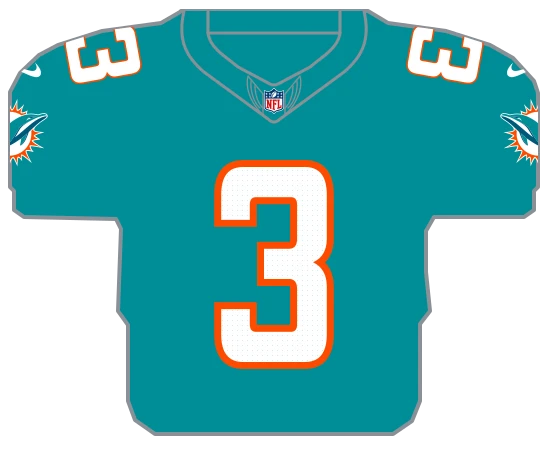
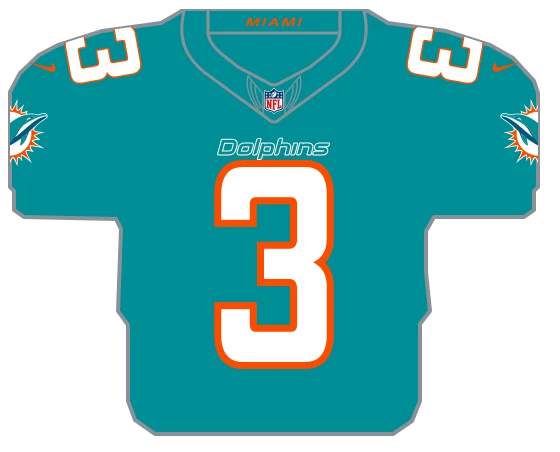
fix(uniforms): restore Dolphins aqua home marks (DEP-717)

diff --git a/web/lib/uniforms/teams/dolphins/marks/wordmark.ts b/web/lib/uniforms/teams/dolphins/marks/wordmark.ts
@@ -1,0 +1,31 @@
+import { placed } from '../../core/marks';
+
+export const DOLPHINS_CHEST_WORDMARK = placed([
+  {
+    id: 'dolphins-wordmark-orange-outer',
+    surface: 'jersey',
+    kind: 'fill',
+    fill: 'orange',
+    fillRule: 'evenodd',
+    clip: true,
+    d: 'M344.26,522.90 L338.02,522.81 C337.07,522.78 336.27,522.58 335.76,522.11 C336.37,522.92 337.49,523.40 338.47,523.40 L343.72,523.47 C344.01,523.31 344.17,523.10 344.26,522.90 Z M349.52,515.94 L349.22,517.07 C349.04,517.54 348.55,518.79 346.62,518.83 L339.86,518.84 C338.81,518.84 338.86,519.58 338.86,519.58 L339.74,519.60 C339.74,519.60 339.59,519.38 340.31,519.38 L346.45,519.43 C349.05,519.46 349.71,517.56 349.80,517.23 L350.00,516.48 L349.52,515.94 Z M347.65,521.33 C347.65,521.33 348.11,522.03 347.65,523.76 C347.41,524.66 346.39,527.04 342.66,527.04 L333.67,527.04 L334.20,527.63 L342.64,527.64 C346.46,527.64 348.12,525.18 348.21,523.45 C348.27,522.08 347.65,521.33 347.65,521.33 Z M329.37,519.45 C329.38,519.31 329.37,519.19 329.35,519.08 C329.08,518.94 328.75,518.89 328.43,518.89 L322.86,518.89 L321.21,525.04 C320.83,526.33 319.92,527.01 318.30,527.00 L317.72,527.00 L318.26,527.60 L318.53,527.60 C320.27,527.60 321.50,526.48 321.81,525.13 L323.31,519.49 L328.88,519.49 C329.04,519.49 329.20,519.50 329.36,519.53 C329.36,519.52 329.36,519.52 329.36,519.51 C329.36,519.49 329.36,519.47 329.37,519.45 Z M332.72,517.73 C333.16,518.89 332.74,520.55 332.61,521.05 L331.00,527.00 L328.05,527.00 L328.58,527.60 L331.45,527.60 L333.06,521.65 C333.56,519.86 333.10,518.41 332.72,517.73 Z M317.73,516.08 L315.28,525.19 C315.19,525.51 314.73,527.07 312.72,527.07 L311.83,527.07 L312.35,527.66 L312.81,527.66 C314.41,527.66 315.53,526.53 315.82,525.48 L318.20,516.60 L317.73,516.08 Z M307.27,519.25 C307.27,519.17 307.27,519.11 307.26,519.04 C307.00,518.92 306.67,518.88 306.35,518.88 L300.64,518.89 L299.01,525.02 C298.56,526.60 297.41,527.06 296.16,527.06 L295.45,527.06 L295.99,527.66 C298.17,527.74 299.24,526.44 299.56,525.28 L301.09,519.48 L306.80,519.47 C306.95,519.47 307.09,519.48 307.24,519.50 C307.24,519.50 307.24,519.50 307.24,519.49 C307.25,519.42 307.26,519.34 307.27,519.25 Z M310.39,517.30 C310.90,518.27 310.81,519.15 310.74,519.81 C310.74,519.81 310.66,520.46 310.49,521.13 L308.88,527.07 L305.92,527.07 L306.46,527.66 L309.33,527.66 L310.93,521.73 C311.46,519.94 311.14,518.33 310.39,517.30 Z M290.98,519.37 C290.99,519.29 290.99,519.20 290.99,519.11 C290.73,518.99 290.33,518.92 289.71,518.92 L284.81,518.92 L283.88,522.41 C283.79,522.76 283.80,523.07 283.90,523.33 C284.01,523.41 284.13,523.48 284.27,523.53 C284.26,523.37 284.28,523.19 284.33,523.00 L285.26,519.52 L290.16,519.52 C290.48,519.52 290.73,519.54 290.94,519.57 C290.94,519.56 290.95,519.56 290.95,519.55 C290.96,519.47 290.97,519.41 290.98,519.37 Z M294.22,517.16 C294.68,518.17 294.56,519.21 294.45,519.66 L293.46,523.67 C293.08,525.39 292.11,527.08 289.93,527.08 C289.93,527.08 284.72,527.10 284.61,527.08 C283.79,527.10 283.34,526.82 283.34,526.82 C283.34,526.82 283.92,527.68 285.06,527.68 L289.64,527.68 C293.53,527.80 293.95,524.12 294.29,522.85 L294.90,520.26 C295.07,519.43 294.95,518.11 294.22,517.16 Z M282.91,526.18 L281.95,529.80 C281.57,531.17 280.48,531.76 279.21,531.76 L278.45,531.76 L278.98,532.36 L279.33,532.36 C280.90,532.36 282.20,531.35 282.55,529.84 L283.34,526.82 C283.05,526.50 282.91,526.18 282.91,526.18 Z M280.97,511.41 L277.26,525.33 C277.03,526.27 276.01,527.07 274.91,527.07 L273.85,527.07 L274.36,527.66 L274.91,527.66 C276.35,527.66 277.46,526.64 277.80,525.62 L281.44,511.92 L280.97,511.41 Z M264.75,518.93 C262.62,518.94 262.59,519.27 262.15,520.73 L261.35,523.67 L261.96,523.67 L262.79,520.66 C263.03,519.77 263.07,519.53 264.36,519.53 L269.27,519.53 C269.33,519.31 269.38,519.11 269.42,518.93 L264.75,518.93 Z M273.75,517.38 C273.63,516.84 273.30,516.43 273.30,516.43 C273.54,517.10 273.30,518.01 273.25,518.23 L272.09,522.75 C271.34,525.58 268.61,527.07 266.21,527.07 L259.40,527.07 C259.19,527.06 258.39,527.02 258.10,526.84 C258.10,526.84 258.27,527.07 258.70,527.33 C259.20,527.64 259.85,527.67 259.85,527.67 L265.95,527.67 C269.32,527.67 271.81,525.76 272.62,523.09 L273.70,518.83 C273.70,518.83 273.92,518.21 273.75,517.38 Z M253.61,515.75 C253.19,515.51 252.44,515.39 251.12,515.39 L244.64,515.39 L242.48,523.44 L243.09,523.44 L245.10,515.99 L251.57,515.99 C252.54,515.99 253.20,516.05 253.65,516.18 C253.65,516.17 253.65,516.16 253.65,516.15 C253.65,516.00 253.64,515.87 253.61,515.75 Z M257.57,517.40 C257.51,518.11 257.34,518.95 256.79,521.00 C255.37,526.34 252.17,527.64 248.62,527.64 L239.08,527.64 L238.55,527.05 L248.17,527.05 C252.50,527.05 254.93,525.74 256.34,520.40 C256.88,518.36 257.06,517.51 257.12,516.81 C257.20,515.99 257.31,514.95 256.87,514.19 C257.52,515.18 257.67,516.36 257.57,517.40',
+  },
+  {
+    id: 'dolphins-wordmark-white-keyline',
+    surface: 'jersey',
+    kind: 'stroke',
+    stroke: 'white',
+    strokeWidth: 2,
+    clip: true,
+    d: 'M349.02,515.49 L348.83,516.22 L348.66,516.86 C348.63,516.97 348.45,517.48 347.95,517.86 C347.47,518.22 346.81,518.24 346.68,518.24 L339.37,518.24 C337.94,518.24 337.97,519.56 337.97,519.56 L344.10,519.68 C346.24,519.72 347.39,521.00 347.30,522.37 C347.29,522.56 347.23,523.03 347.10,523.49 C346.81,524.60 345.85,526.44 342.58,526.44 L333.12,526.44 L333.45,525.17 C333.48,525.06 333.57,524.41 334.06,524.05 C334.51,523.71 335.12,523.68 335.29,523.68 L342.72,523.67 C343.16,523.67 343.48,523.59 343.72,523.46 C344.00,523.31 344.16,523.10 344.25,522.89 C344.39,522.59 344.36,522.32 344.36,522.32 L337.81,522.19 C335.90,522.14 334.77,521.14 334.91,519.54 C334.93,519.35 334.96,518.97 335.13,518.35 L335.13,518.35 L335.13,518.34 C335.63,516.58 337.33,515.49 339.56,515.49 L339.57,515.49 L348.28,515.49 L349.02,515.49 Z M332.36,519.23 C332.33,519.53 332.29,519.95 332.16,520.46 L330.55,526.41 L327.50,526.41 L329.22,520.12 C329.31,519.77 329.34,519.62 329.35,519.53 C329.35,519.52 329.35,519.51 329.35,519.51 C329.36,519.49 329.36,519.47 329.36,519.45 C329.37,519.31 329.37,519.19 329.34,519.08 C329.34,519.06 329.34,519.05 329.33,519.03 C329.18,518.44 328.54,518.30 327.98,518.30 L322.40,518.30 L320.63,524.91 C320.56,525.11 320.34,525.67 319.90,526.00 C319.35,526.41 318.43,526.41 318.43,526.41 L317.19,526.41 L320.12,515.49 L323.14,515.49 L322.79,516.80 C323.57,515.80 324.38,515.55 324.79,515.49 L328.44,515.49 C331.03,515.49 332.57,516.96 332.36,519.23 Z M314.69,525.11 L314.68,525.14 L314.67,525.17 C314.57,525.44 314.38,525.82 314.01,526.09 C313.53,526.45 312.87,526.47 312.74,526.47 L311.28,526.47 L314.20,515.56 L317.26,515.56 L314.69,525.11 Z M310.26,519.17 L310.26,519.26 C310.23,519.52 310.21,519.86 310.03,520.54 L308.42,526.47 L305.38,526.47 L307.10,520.14 C307.17,519.84 307.21,519.68 307.23,519.50 C307.23,519.50 307.23,519.50 307.24,519.49 C307.25,519.42 307.25,519.34 307.26,519.25 C307.27,519.17 307.27,519.10 307.26,519.04 C307.26,519.03 307.26,519.01 307.26,519.00 C307.16,518.42 306.49,518.28 305.90,518.28 L300.19,518.29 L298.43,524.89 C298.43,524.89 298.23,525.65 297.68,526.06 C297.23,526.39 296.55,526.46 296.30,526.47 L294.91,526.47 L298.74,512.08 C298.83,511.84 299.04,511.35 299.45,511.05 C299.88,510.72 300.55,510.66 300.81,510.64 L302.16,510.64 L301.97,511.37 L300.56,516.86 C300.83,516.51 301.11,516.25 301.37,516.06 C301.41,516.04 301.45,516.01 301.49,515.98 C301.69,515.84 301.89,515.75 302.07,515.68 C302.14,515.65 302.21,515.63 302.28,515.61 C302.61,515.52 302.83,515.53 302.83,515.53 L306.34,515.53 C309.49,515.53 310.42,517.49 310.26,519.17 Z M289.89,523.66 C289.89,523.66 286.40,523.66 285.00,523.66 C284.73,523.66 284.48,523.62 284.27,523.53 C284.13,523.48 284.01,523.41 283.90,523.33 C283.47,523.01 283.25,522.48 283.42,521.81 L284.35,518.33 L289.26,518.33 C290.67,518.33 290.95,518.71 290.98,519.07 C290.98,519.08 290.98,519.09 290.98,519.11 C290.99,519.20 290.98,519.29 290.97,519.37 C290.97,519.41 290.96,519.47 290.94,519.55 C290.94,519.56 290.94,519.56 290.94,519.57 C290.75,520.49 289.89,523.66 289.89,523.66 Z M290.20,515.52 L286.87,515.53 C286.54,515.55 285.62,515.72 284.74,516.85 L285.08,515.53 L282.12,515.54 L277.91,531.16 L279.24,531.16 C279.45,531.16 280.18,531.11 280.65,530.76 C281.08,530.43 281.29,529.90 281.37,529.68 L282.61,525.00 C282.62,525.47 282.86,526.32 284.15,526.49 C284.27,526.50 288.80,526.49 288.80,526.49 L288.80,526.49 L289.98,526.49 C289.98,526.49 290.88,526.54 291.60,525.95 C292.40,525.30 292.69,524.26 292.69,524.26 L292.96,523.33 C292.96,523.33 293.97,519.35 294.00,519.07 C294.20,516.84 292.78,515.52 290.20,515.52 Z M280.30,511.62 L276.71,525.07 L276.71,525.08 L276.71,525.09 C276.65,525.28 276.46,525.78 276.03,526.10 C275.67,526.37 275.22,526.45 274.90,526.47 L274.88,526.47 L273.30,526.47 L273.49,525.74 L277.07,512.33 C277.10,512.22 277.27,511.64 277.77,511.27 C278.23,510.92 278.85,510.89 279.03,510.89 L280.49,510.89 L280.30,511.62 Z M268.67,521.87 C268.33,523.14 267.56,523.68 266.09,523.68 L260.79,523.68 L261.75,520.14 C262.05,519.03 262.59,518.34 264.35,518.34 L269.57,518.34 C269.55,518.39 268.71,521.75 268.67,521.87 Z M272.61,516.05 C272.30,515.60 271.69,515.52 271.42,515.51 L264.67,515.51 C261.57,515.51 259.53,517.01 258.77,519.85 L257.61,524.34 C257.56,524.60 257.43,525.41 257.80,525.94 C258.09,526.37 258.65,526.46 258.94,526.48 L265.75,526.48 C268.90,526.48 270.88,525.03 271.64,522.16 L272.53,518.67 L272.53,518.67 L272.63,518.27 L272.79,517.64 C272.85,517.37 272.96,516.58 272.61,516.05 Z M253.61,516.59 C253.58,516.99 253.40,517.75 252.93,519.52 C251.98,523.04 251.52,523.44 248.38,523.44 L241.86,523.44 L244.18,514.80 L250.66,514.80 C252.77,514.80 253.43,515.11 253.59,515.71 C253.60,515.72 253.60,515.74 253.60,515.75 C253.63,515.87 253.64,516.17 253.64,516.18 C253.64,516.31 253.63,516.45 253.61,516.59 Z M251.31,511.79 L241.94,511.79 L241.80,512.31 L238.00,526.46 L247.71,526.46 C252.84,526.46 254.45,525.15 255.89,519.81 C256.45,517.77 256.60,516.92 256.66,516.22 C256.85,514.20 256.07,511.79 251.31,511.79',
+  },
+  {
+    id: 'dolphins-wordmark-interior',
+    surface: 'jersey',
+    kind: 'fill',
+    fill: 'teal',
+    fillRule: 'evenodd',
+    clip: true,
+    d: 'M349.02,515.49 L348.83,516.22 L348.66,516.86 C348.63,516.97 348.45,517.48 347.95,517.86 C347.47,518.22 346.81,518.24 346.68,518.24 L339.37,518.24 C337.94,518.24 337.97,519.56 337.97,519.56 L344.10,519.68 C346.24,519.72 347.39,521.00 347.30,522.37 C347.29,522.56 347.23,523.03 347.10,523.49 C346.81,524.60 345.85,526.44 342.58,526.44 L333.12,526.44 L333.45,525.17 C333.48,525.06 333.57,524.41 334.06,524.05 C334.51,523.71 335.12,523.68 335.29,523.68 L342.72,523.67 C343.16,523.67 343.48,523.59 343.72,523.46 C344.00,523.31 344.16,523.10 344.25,522.89 C344.39,522.59 344.36,522.32 344.36,522.32 L337.81,522.19 C335.90,522.14 334.77,521.14 334.91,519.54 C334.93,519.35 334.96,518.97 335.13,518.35 L335.13,518.35 L335.13,518.34 C335.63,516.58 337.33,515.49 339.56,515.49 L339.57,515.49 L348.28,515.49 L349.02,515.49 Z M332.36,519.23 C332.33,519.53 332.29,519.95 332.16,520.46 L330.55,526.41 L327.50,526.41 L329.22,520.12 C329.31,519.77 329.34,519.62 329.35,519.53 C329.35,519.52 329.35,519.51 329.35,519.51 C329.36,519.49 329.36,519.47 329.36,519.45 C329.37,519.31 329.37,519.19 329.34,519.08 C329.34,519.06 329.34,519.05 329.33,519.03 C329.18,518.44 328.54,518.30 327.98,518.30 L322.40,518.30 L320.63,524.91 C320.56,525.11 320.34,525.67 319.90,526.00 C319.35,526.41 318.43,526.41 318.43,526.41 L317.19,526.41 L320.12,515.49 L323.14,515.49 L322.79,516.80 C323.57,515.80 324.38,515.55 324.79,515.49 L328.44,515.49 C331.03,515.49 332.57,516.96 332.36,519.23 Z M314.69,525.11 L314.68,525.14 L314.67,525.17 C314.57,525.44 314.38,525.82 314.01,526.09 C313.53,526.45 312.87,526.47 312.74,526.47 L311.28,526.47 L314.20,515.56 L317.26,515.56 L314.69,525.11 Z M310.26,519.17 L310.26,519.26 C310.23,519.52 310.21,519.86 310.03,520.54 L308.42,526.47 L305.38,526.47 L307.10,520.14 C307.17,519.84 307.21,519.68 307.23,519.50 C307.23,519.50 307.23,519.50 307.24,519.49 C307.25,519.42 307.25,519.34 307.26,519.25 C307.27,519.17 307.27,519.10 307.26,519.04 C307.26,519.03 307.26,519.01 307.26,519.00 C307.16,518.42 306.49,518.28 305.90,518.28 L300.19,518.29 L298.43,524.89 C298.43,524.89 298.23,525.65 297.68,526.06 C297.23,526.39 296.55,526.46 296.30,526.47 L294.91,526.47 L298.74,512.08 C298.83,511.84 299.04,511.35 299.45,511.05 C299.88,510.72 300.55,510.66 300.81,510.64 L302.16,510.64 L301.97,511.37 L300.56,516.86 C300.83,516.51 301.11,516.25 301.37,516.06 C301.41,516.04 301.45,516.01 301.49,515.98 C301.69,515.84 301.89,515.75 302.07,515.68 C302.14,515.65 302.21,515.63 302.28,515.61 C302.61,515.52 302.83,515.53 302.83,515.53 L306.34,515.53 C309.49,515.53 310.42,517.49 310.26,519.17 Z M289.89,523.66 C289.89,523.66 286.40,523.66 285.00,523.66 C284.73,523.66 284.48,523.62 284.27,523.53 C284.13,523.48 284.01,523.41 283.90,523.33 C283.47,523.01 283.25,522.48 283.42,521.81 L284.35,518.33 L289.26,518.33 C290.67,518.33 290.95,518.71 290.98,519.07 C290.98,519.08 290.98,519.09 290.98,519.11 C290.99,519.20 290.98,519.29 290.97,519.37 C290.97,519.41 290.96,519.47 290.94,519.55 C290.94,519.56 290.94,519.56 290.94,519.57 C290.75,520.49 289.89,523.66 289.89,523.66 Z M290.20,515.52 L286.87,515.53 C286.54,515.55 285.62,515.72 284.74,516.85 L285.08,515.53 L282.12,515.54 L277.91,531.16 L279.24,531.16 C279.45,531.16 280.18,531.11 280.65,530.76 C281.08,530.43 281.29,529.90 281.37,529.68 L282.61,525.00 C282.62,525.47 282.86,526.32 284.15,526.49 C284.27,526.50 288.80,526.49 288.80,526.49 L288.80,526.49 L289.98,526.49 C289.98,526.49 290.88,526.54 291.60,525.95 C292.40,525.30 292.69,524.26 292.69,524.26 L292.96,523.33 C292.96,523.33 293.97,519.35 294.00,519.07 C294.20,516.84 292.78,515.52 290.20,515.52 Z M280.30,511.62 L276.71,525.07 L276.71,525.08 L276.71,525.09 C276.65,525.28 276.46,525.78 276.03,526.10 C275.67,526.37 275.22,526.45 274.90,526.47 L274.88,526.47 L273.30,526.47 L273.49,525.74 L277.07,512.33 C277.10,512.22 277.27,511.64 277.77,511.27 C278.23,510.92 278.85,510.89 279.03,510.89 L280.49,510.89 L280.30,511.62 Z M268.67,521.87 C268.33,523.14 267.56,523.68 266.09,523.68 L260.79,523.68 L261.75,520.14 C262.05,519.03 262.59,518.34 264.35,518.34 L269.57,518.34 C269.55,518.39 268.71,521.75 268.67,521.87 Z M272.61,516.05 C272.30,515.60 271.69,515.52 271.42,515.51 L264.67,515.51 C261.57,515.51 259.53,517.01 258.77,519.85 L257.61,524.34 C257.56,524.60 257.43,525.41 257.80,525.94 C258.09,526.37 258.65,526.46 258.94,526.48 L265.75,526.48 C268.90,526.48 270.88,525.03 271.64,522.16 L272.53,518.67 L272.53,518.67 L272.63,518.27 L272.79,517.64 C272.85,517.37 272.96,516.58 272.61,516.05 Z M253.61,516.59 C253.58,516.99 253.40,517.75 252.93,519.52 C251.98,523.04 251.52,523.44 248.38,523.44 L241.86,523.44 L244.18,514.80 L250.66,514.80 C252.77,514.80 253.43,515.11 253.59,515.71 C253.60,515.72 253.60,515.74 253.60,515.75 C253.63,515.87 253.64,516.17 253.64,516.18 C253.64,516.31 253.63,516.45 253.61,516.59 Z M251.31,511.79 L241.94,511.79 L241.80,512.31 L238.00,526.46 L247.71,526.46 C252.84,526.46 254.45,525.15 255.89,519.81 C256.45,517.77 256.60,516.92 256.66,516.22 C256.85,514.20 256.07,511.79 251.31,511.79',
+  },
+]);

diff --git a/web/lib/uniforms/teams/dolphins/marks/collar.ts b/web/lib/uniforms/teams/dolphins/marks/collar.ts
@@ -1,0 +1,13 @@
+import { placed } from '../../core/marks';
+
+export const DOLPHINS_MIAMI_COLLAR_LETTERING = placed([
+  {
+    id: 'dolphins-miami-collar',
+    surface: 'collar',
+    kind: 'fill',
+    fill: 'orange',
+    fillRule: 'evenodd',
+    clip: true,
+    d: 'M284.35,397.47 L286.33,389.85 L285.09,389.85 C284.31,389.89 284.05,390.35 283.96,390.54 L282.00,398.15 L283.30,398.15 C283.33,398.15 284.00,398.14 284.35,397.47 M320.03,397.46 L322.00,389.85 L320.78,389.85 C319.77,389.90 319.62,390.63 319.62,390.63 L319.44,391.28 L319.44,391.28 L317.67,398.15 L318.87,398.15 C319.68,398.12 319.95,397.65 320.03,397.46 M312.45,389.85 L308.13,396.25 L307.10,389.85 L304.79,389.85 C303.79,389.90 303.63,390.63 303.63,390.63 L301.67,398.15 L303.86,398.15 L305.45,391.95 L305.52,391.95 L306.55,398.15 L308.71,398.15 L312.94,391.95 L313.00,391.95 L311.40,398.15 L313.59,398.15 L315.74,389.85 L312.45,389.85 Z M298.62,398.15 L296.29,398.15 L295.79,396.14 L291.53,396.14 L290.61,397.33 L290.59,397.37 C290.59,397.37 290.02,398.15 289.02,398.15 L288.53,398.15 L288.53,398.15 L287.66,398.15 L293.63,390.55 C293.80,390.36 294.31,389.89 295.07,389.85 L296.39,389.85 L298.62,398.15 Z M295.48,394.83 L294.76,391.87 L292.52,394.83 L295.48,394.83 Z M276.78,389.85 L272.45,396.25 L271.42,389.85 L269.11,389.85 C268.28,389.89 268.02,390.40 267.96,390.56 L266.00,398.15 L268.19,398.15 L269.79,391.95 L269.84,391.95 L270.87,398.15 L273.04,398.15 L277.26,391.95 L277.33,391.95 L275.74,398.15 L277.91,398.15 L280.06,389.85 L276.78,389.85 Z',
+  },
+]);

diff --git a/web/lib/uniforms/teams/dolphins/jerseys/teal.ts b/web/lib/uniforms/teams/dolphins/jerseys/teal.ts
@@ -1,6 +1,8 @@
-import { DOLPHINS_MODERN_SLEEVE_MARKS } from '../marks/sleeves';
+import { DOLPHINS_MODERN_SLEEVE_MARKS, DOLPHINS_HOME_SLEEVE_NIKE } from '../marks/sleeves';
 import type { CompleteJerseySpec } from '../../core/complete';
 import { DOLPHINS_NUMBER_THREE } from '../marks/numbers';
+import { DOLPHINS_CHEST_WORDMARK } from '../marks/wordmark';
+import { DOLPHINS_MIAMI_COLLAR_LETTERING } from '../marks/collar';
 
 // Home: teal body, a keylined teal collar, no sleeve trim, white numerals keylined orange.
 export const DOLPHINS_JERSEY_TEAL: CompleteJerseySpec = {
@@ -25,8 +27,13 @@ export const DOLPHINS_JERSEY_TEAL: CompleteJerseySpec = {
     fill: 'white',
     outline: 'orange',
     outlineWeight: 'regular',
-    texture: 'mesh',
+    texture: 'plain',
     glyphPath: DOLPHINS_NUMBER_THREE,
   },
-  marks: [{ paint: 'over', mark: DOLPHINS_MODERN_SLEEVE_MARKS }],
+  marks: [
+    { paint: 'over', mark: DOLPHINS_HOME_SLEEVE_NIKE },
+    { paint: 'over', mark: DOLPHINS_CHEST_WORDMARK },
+    { paint: 'over', mark: DOLPHINS_MIAMI_COLLAR_LETTERING },
+    { paint: 'over', mark: DOLPHINS_MODERN_SLEEVE_MARKS },
+  ],
 };

diff --git a/web/lib/uniforms/teams/dolphins/marks/sleeves.ts b/web/lib/uniforms/teams/dolphins/marks/sleeves.ts
@@ -1,3 +1,4 @@
+import { NIKE_MARK } from '../../core/pants-logos';
 import { placed, placeMarkOnPair, type Mark } from '../../core/marks';
 
 // The full-color dolphin retains its white backing on colored jersey fabric.
@@ -29,4 +30,8 @@ export const DOLPHINS_MODERN_SLEEVE_MARKS = placed(
     teal: 'teal',
     logoNavy: 'logoNavy',
   })
+);
+
+export const DOLPHINS_HOME_SLEEVE_NIKE = placed(
+  placeMarkOnPair('dolphins-home-nike', NIKE_MARK, 'sleeve-tops', { nike: 'orange' })
 );

diff --git a/web/lib/uniforms/teams/dolphins/catalog.ts b/web/lib/uniforms/teams/dolphins/catalog.ts
@@ -8,7 +8,6 @@ export const DOLPHINS_CATALOG: TeamCatalog = {
     {
       id: 'dolphins-home-2018',
       slug: 'home',
-      sleeveNike: 'white',
       name: 'Home',
       kind: 'home',
       jersey: 'teal',
